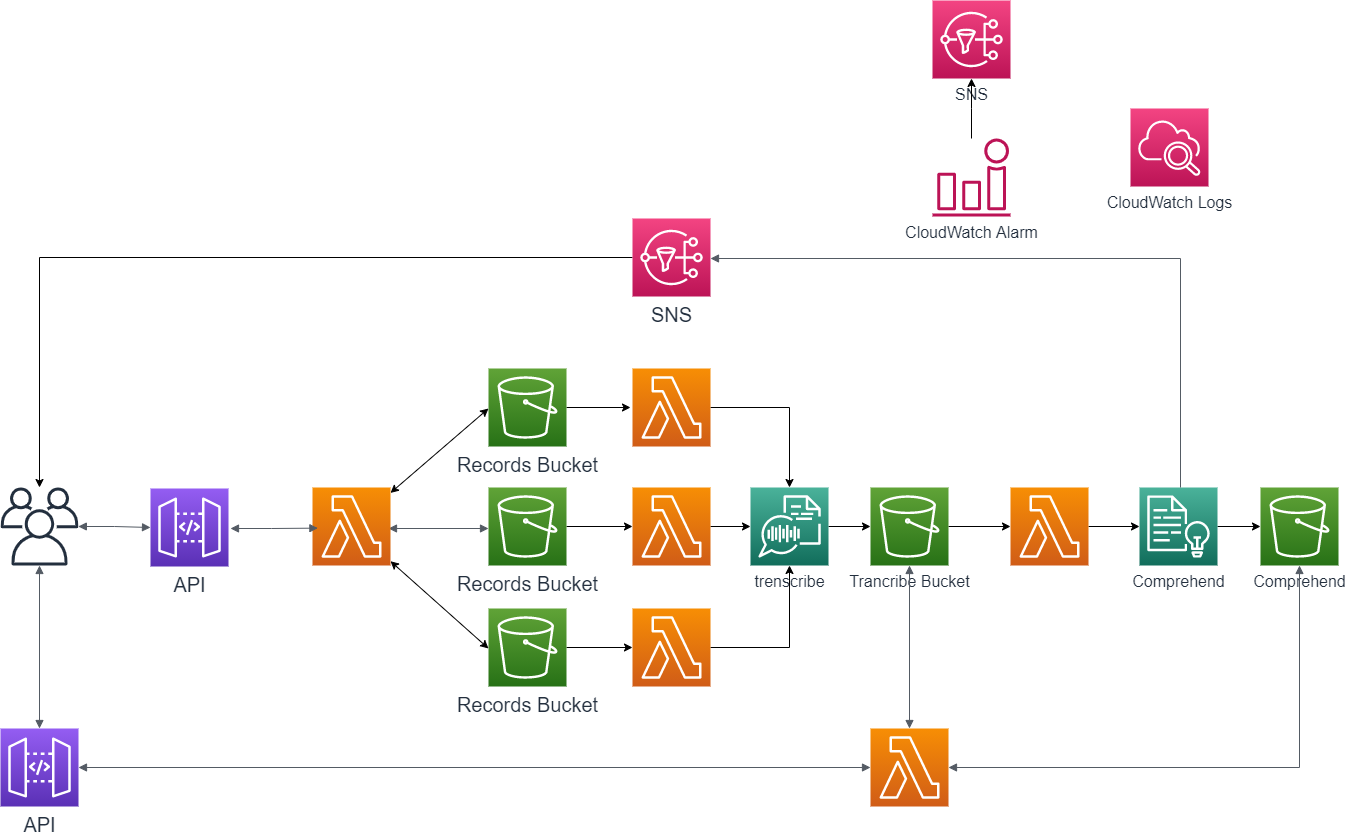
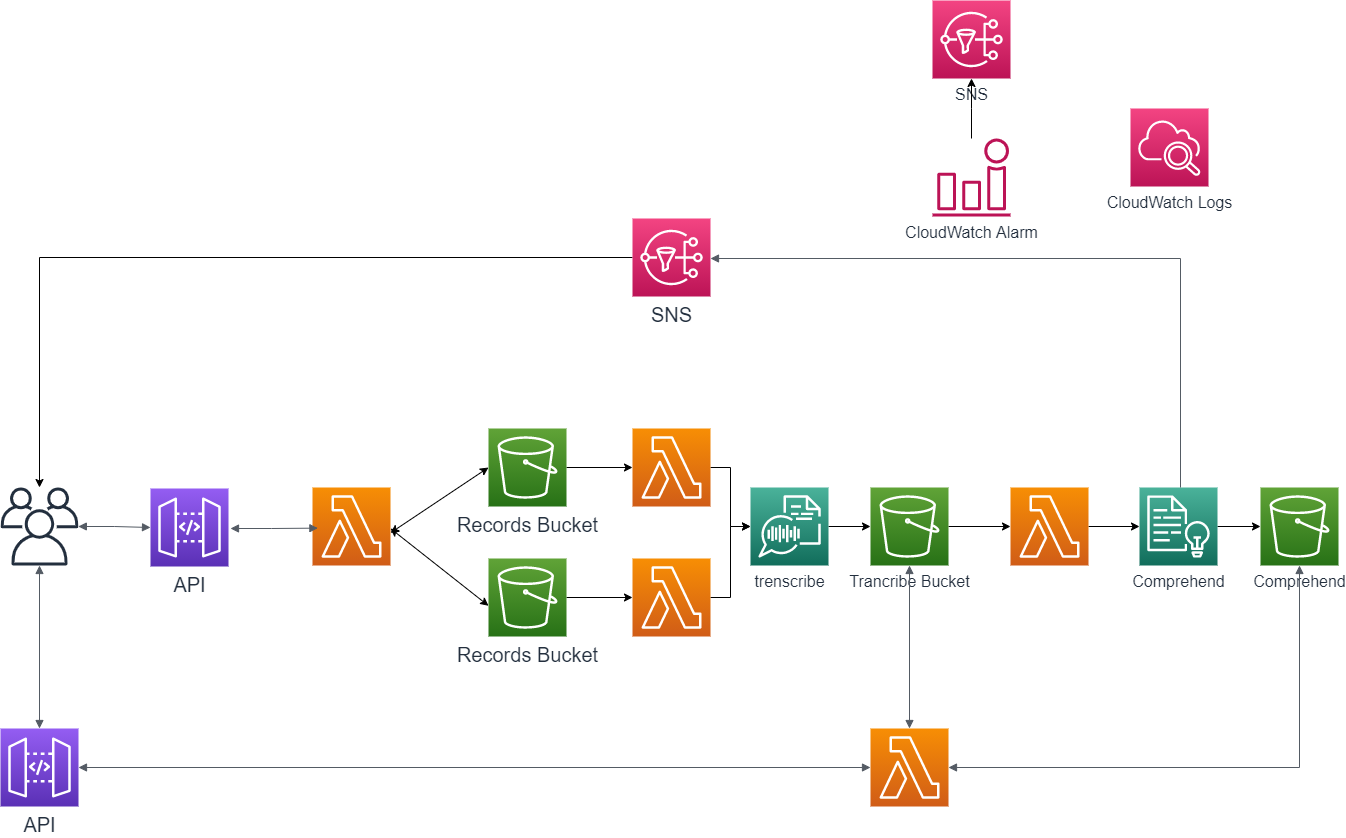
fix: resolve bug

Changed region(s): [[0.3432, 0.4344, 0.5305, 0.8687], [0.2808, 0.6205, 0.312, 0.6516]]

diff --git a/README.md b/README.md
@@ -2,7 +2,7 @@
 
 
 ## 構成は以下
-![serverless](https://user-images.githubusercontent.com/64523345/109884508-7006f000-7cc0-11eb-97d7-ee644da98239.png)
+![serverless](https://user-images.githubusercontent.com/64523345/110412110-01b29b00-80cf-11eb-9177-9d6af11d9333.png)
 
 <br>local環境はlocalディレクトリ
 <br>AWS環境はcloudディレクトリ
